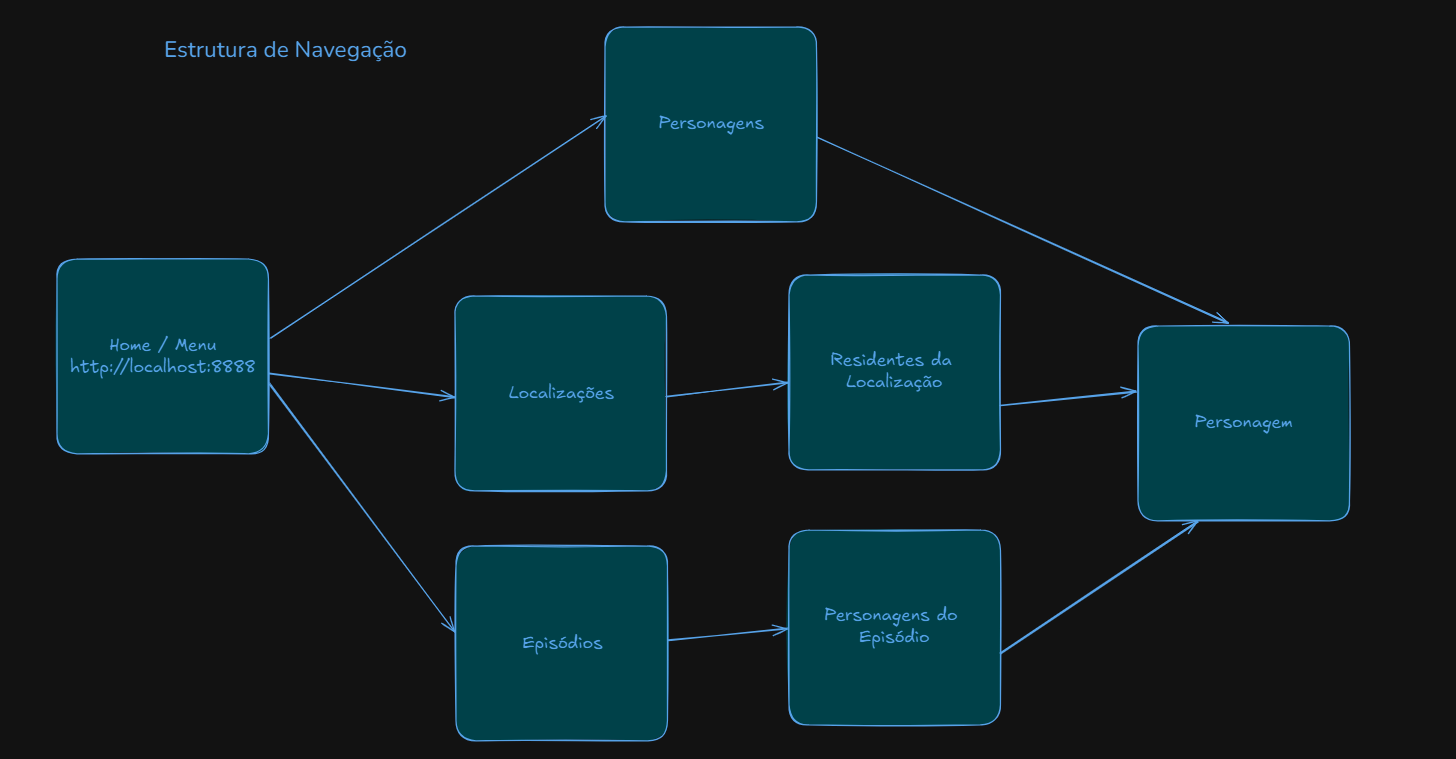
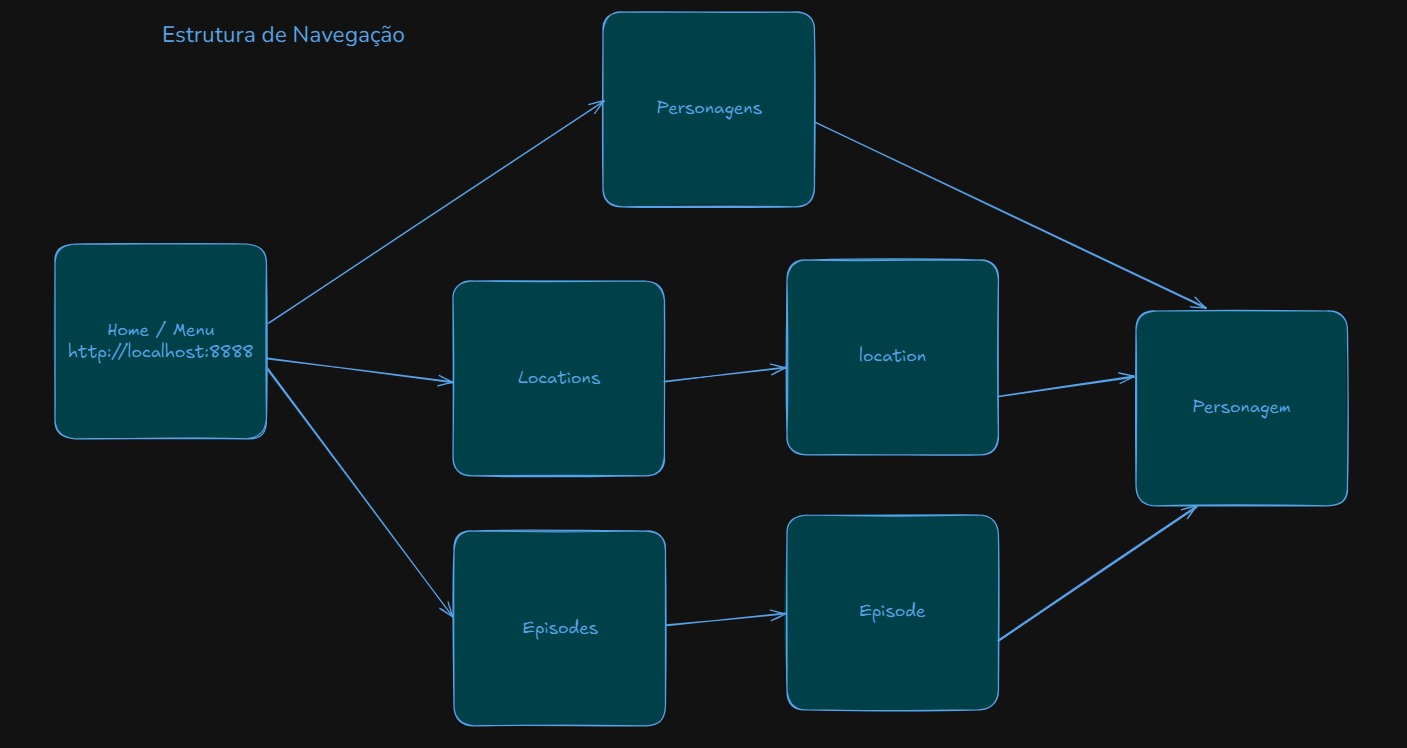
fix: correção das rotas para atender ao enunciado do exercício.

diff --git a/templates/nav.html b/templates/nav.html
@@ -11,10 +11,10 @@
                 <a class="nav-link active text-info bg-hover p-1"  aria-current="page" href="/personagens">Personagens</a>
             </li>
             <li class="nav-item">
-                <a class="nav-link text-info bg-hover p-1"  href="/localizacoes">Localizações</a>
+                <a class="nav-link text-info bg-hover p-1"  href="/locations">Localizações</a>
             </li>
             <li class="nav-item">     
-                <a class="nav-link text-info bg-hover p-1" href="/episodios">Episódios</a>  
+                <a class="nav-link text-info bg-hover p-1" href="/episodes">Episódios</a>  
             </li>
           </ul>
         </div>

diff --git a/app.py b/app.py
@@ -135,16 +135,16 @@ def personagem(idt: int):
     return '<h1 style="color: red;">Fazer a renderização da página com informações de um personagem.<h1/>'
 
 
-@app.route('/episodios')
+@app.route('/episodes')
 def episodios_sem_pagina():
     url = "https://rickandmortyapi.com/api/episode"
     dic = get_json_data_for(url)
     
-    return render_template("episodios.html", episodios=dic["results"])
+    return render_template("episodes.html", episodios=dic["results"])
 
 
-@app.route('/episodios/<int:page>')
-def episodios(page: int):
+@app.route('/episodes/<int:page>')
+def episodes(page: int):
     '''
     Episódios
     '''
@@ -152,8 +152,8 @@ def episodios(page: int):
     return '<h1 style="color: red;">Fazer a renderização da página com informações dos episódios.<h1/>'
 
 
-@app.route('/personagens_do_episodio/<int:idt>')
-def personagens_do_episodio(idt: int):
+@app.route('/episode/<int:idt>')
+def episode(idt: int):
     '''
     Episódio de identificador informado.
     '''
@@ -162,16 +162,16 @@ def personagens_do_episodio(idt: int):
 
 
 
-@app.route('/localizacoes')
+@app.route('/locations')
 def localizacoes_sem_pagina():
     '''
     Localizações
     '''
-    return redirect('/localizacoes/1')
+    return redirect('/locations/1')
 
 
-@app.route('/localizacoes/<int:page>')
-def localizacoes(page: int):
+@app.route('/locations/<int:page>')
+def locations(page: int):
     '''
     Localizações
     '''
@@ -179,8 +179,8 @@ def localizacoes(page: int):
     return '<h1 style="color: red;">Fazer a renderização da página com as informações das localizações.<h1/>'
 
 
-@app.route('/residentes_da_localizacao/<int:idt>')
-def residentes_da_localizacao(idt: int):
+@app.route('/location/<int:idt>')
+def location(idt: int):
     '''
     residentes de identificador informado.
     '''
